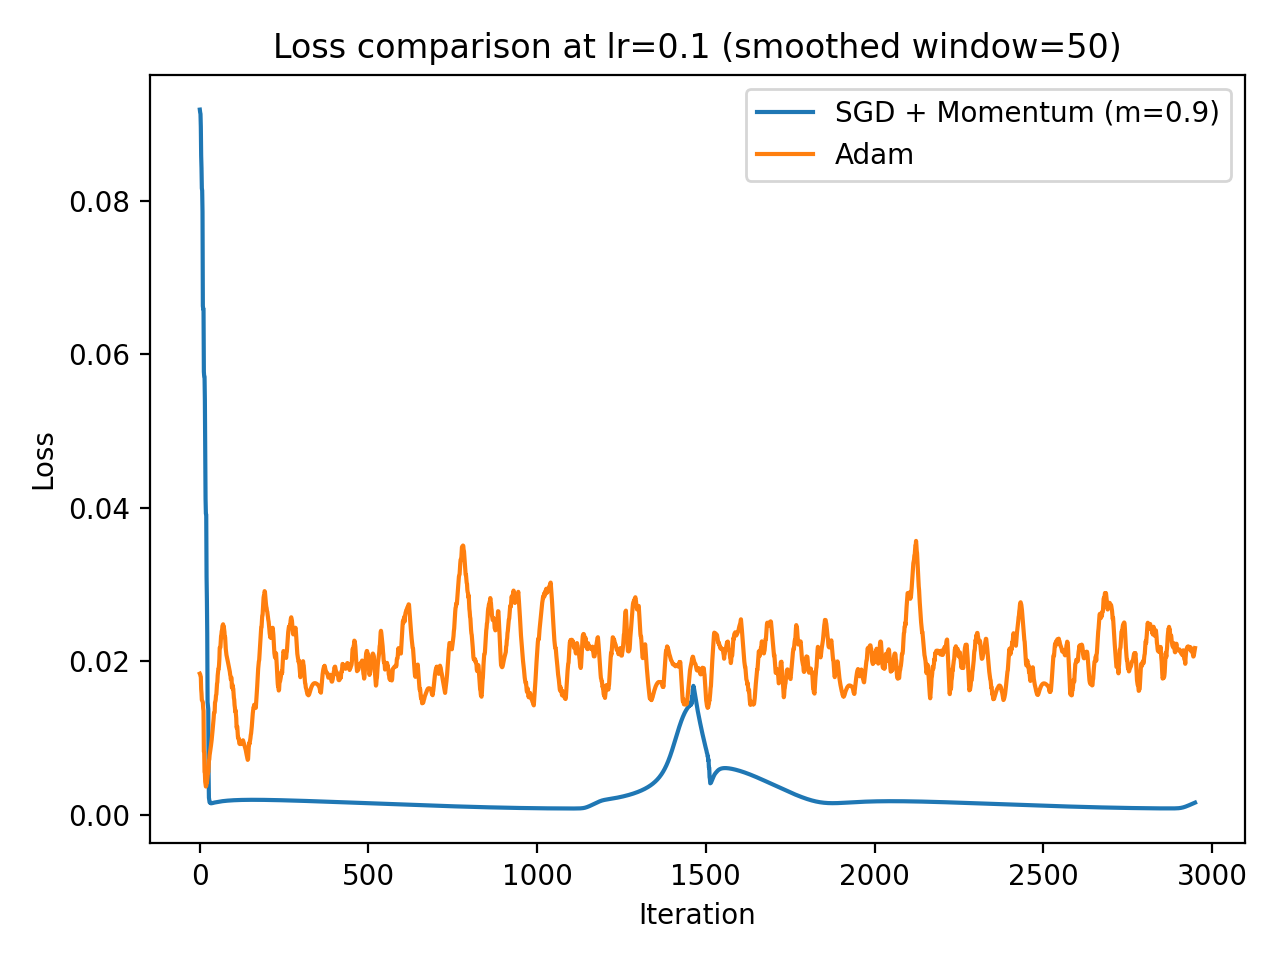
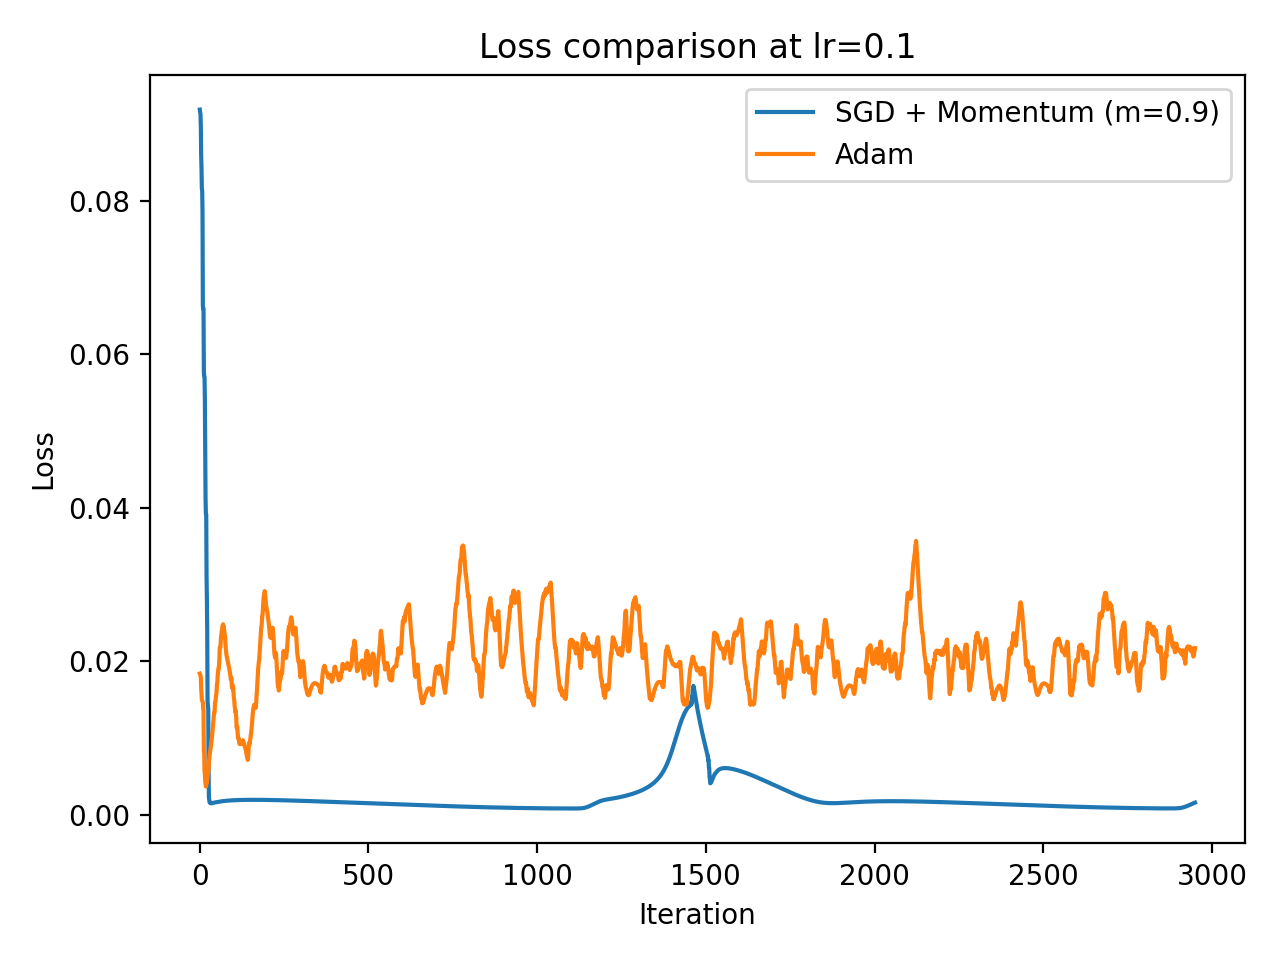
Tidied up plots for 1c

Changed region(s): [[0.2188, 0.0312, 0.875, 0.0625]]

diff --git a/code/task1c.py b/code/task1c.py
@@ -85,7 +85,7 @@ def plot_compare_lr(lr, mom_losses, mom_ok, adam_losses, adam_ok, out_path):
 
     plt.xlabel("Iteration")
     plt.ylabel("Loss")
-    plt.title(f"Loss comparison at lr={lr} (smoothed window={SMOOTH_WINDOW})")
+    plt.title(f"Loss comparison at lr={lr}")
     plt.legend()
     plt.tight_layout()
     plt.savefig(out_path, dpi=200)
@@ -102,7 +102,7 @@ def plot_all_lrs(losses_by_lr, ok_by_lr, title, out_path, use_log_y=True):
 
     plt.xlabel("Iteration")
     plt.ylabel("Loss")
-    plt.title(title + f" (smoothed window={SMOOTH_WINDOW})")
+    plt.title(title)
     if use_log_y:
         plt.yscale("log")
     plt.legend()
